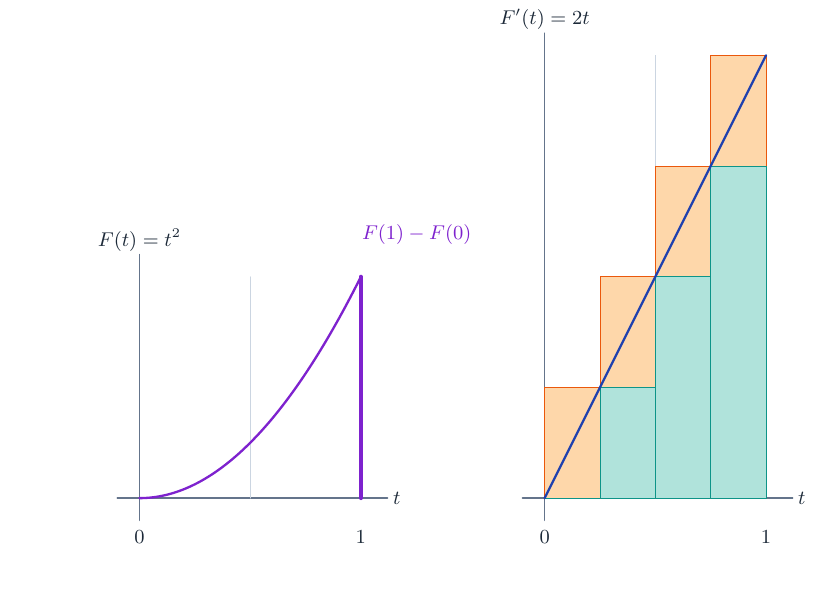
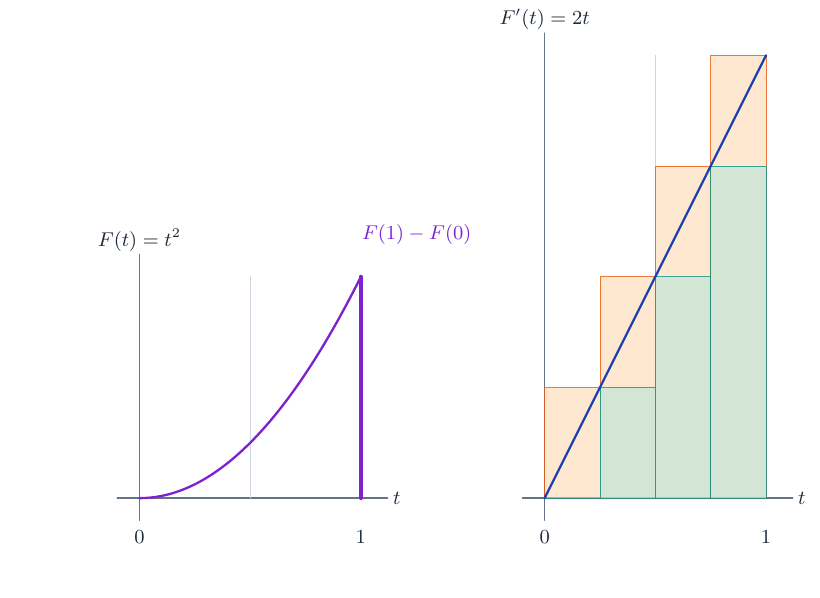
Clarify integral area animations and extract the rectangle pi bridge

Changed region(s): [[0.6402, 0.0903, 0.9451, 0.8428]]

diff --git a/scripts/generate_tikz_animations.py b/scripts/generate_tikz_animations.py
@@ -57,6 +57,10 @@ def path(points: list[tuple[float, float]]) -> str:
     return " ".join(f"({q(x)},{q(y)})" for x, y in points)
 
 
+def polygon(points: list[tuple[float, float]]) -> str:
+    return " -- ".join(f"({q(x)},{q(y)})" for x, y in points)
+
+
 def n(x: float, y: float, text: str, opts: str = "") -> str:
     extra = "," + opts if opts else ""
     return rf"\node[font=\small,text=ink{extra}] at ({q(x)},{q(y)}) {{{text}}};"
@@ -104,8 +108,8 @@ def kernel_frame(cells: int) -> str:
     for left, right in zip(mesh, mesh[1:]):
         lx, rx = x0 + float(left) * unit, x0 + float(right) * unit
         out += [
-            rf"\path[fill=orangefill,draw=orange,line width=.45pt] ({q(lx)},{y0}) rectangle ({q(rx)},{q(y0+float(rational_kernel(left))*unit)});",
-            rf"\path[fill=tealfill,draw=teal,line width=.45pt] ({q(lx)},{y0}) rectangle ({q(rx)},{q(y0+float(rational_kernel(right))*unit)});",
+            rf"\path[fill=orangefill,fill opacity=.55,draw=orange,draw opacity=.8,line width=.45pt] ({q(lx)},{y0}) rectangle ({q(rx)},{q(y0+float(rational_kernel(left))*unit)});",
+            rf"\path[fill=tealfill,fill opacity=.55,draw=teal,draw opacity=.8,line width=.45pt] ({q(lx)},{y0}) rectangle ({q(rx)},{q(y0+float(rational_kernel(right))*unit)});",
         ]
     curve = [(x0 + unit * i / 100, y0 + unit / (1 + (i / 100) ** 2)) for i in range(101)]
     out += [
@@ -160,8 +164,8 @@ def sine_frame(cells: int, last: int, guard: Fraction) -> str:
     for left, right in zip(mesh, mesh[1:]):
         lx, rx = x0 + 2 * float(left) * xunit, x0 + 2 * float(right) * xunit
         out += [
-            rf"\path[fill=orangefill,draw=orange,line width=.45pt] ({q(lx)},{y0}) rectangle ({q(rx)},{q(y0+float(boxes[right][1])*yunit)});",
-            rf"\path[fill=tealfill,draw=teal,line width=.45pt] ({q(lx)},{y0}) rectangle ({q(rx)},{q(y0+float(boxes[left][0])*yunit)});",
+            rf"\path[fill=orangefill,fill opacity=.55,draw=orange,draw opacity=.8,line width=.45pt] ({q(lx)},{y0}) rectangle ({q(rx)},{q(y0+float(boxes[right][1])*yunit)});",
+            rf"\path[fill=tealfill,fill opacity=.55,draw=teal,draw opacity=.8,line width=.45pt] ({q(lx)},{y0}) rectangle ({q(rx)},{q(y0+float(boxes[left][0])*yunit)});",
         ]
     curve = [(x0 + xunit * i / 150, y0 + yunit * math.sin(math.pi * i / 300)) for i in range(151)]
     out.append(rf"\draw[ink,line width=1.05pt] plot[smooth] coordinates {{{path(curve)}}};")
@@ -214,7 +218,8 @@ def circle_frame(cells: int) -> str:
         rf"\draw[axis,line width=.75pt] ({q(x0)},{q(y0-10)}) -- ({q(x0)},{q(north[1]+15)});",
         rf"\draw[curve,line width=1pt] ({q(x0)},{q(y0)}) -- ({q(x0)},{q(north[1])});",
         rf"\draw[ink,line width=1.2pt] ({q(east[0])},{q(y0)}) arc[start angle=0,end angle=90,radius={radius}pt];",
-        rf"\path[fill=tealfill] ({q(origin[0])},{q(origin[1])}) -- {path(plotted)} -- cycle;",
+        rf"\path[fill=orangefill,draw=orange,line width=.45pt] ({q(origin[0])},{q(origin[1])}) -- {polygon([plotted[0], *outer, plotted[-1]])} -- cycle;",
+        rf"\path[fill=tealfill,draw=teal,line width=.45pt] ({q(origin[0])},{q(origin[1])}) -- {polygon(plotted)} -- cycle;",
     ]
     for value, endpoint in zip(mesh, plotted):
         vertical = screen((0, value))
@@ -292,33 +297,55 @@ def sqrt_animation() -> Animation:
 
 
 def substitution_frame(cells: int) -> str:
-    left, right, top, bottom = 57, 300, 135, 51
+    left, right = 57, 300
+    t_base, x_base, height = 136, 39, 45
     x = lambda value: left + float(value) * (right - left)
     mesh = [Fraction(i, cells) for i in range(cells + 1)]
     out = [
-        rf"\draw[axis,line width=.75pt] ({left-10},{top}) -- ({right+14},{top});",
-        rf"\draw[axis,line width=.75pt] ({left-10},{bottom}) -- ({right+14},{bottom});",
+        rf"\draw[axis,line width=.75pt] ({left-10},{t_base}) -- ({right+14},{t_base});",
+        rf"\draw[axis,line width=.75pt] ({left},{t_base-8}) -- ({left},{t_base+height+11});",
+        rf"\draw[axis,line width=.75pt] ({left-10},{x_base}) -- ({right+14},{x_base});",
+        rf"\draw[axis,line width=.75pt] ({left},{x_base-8}) -- ({left},{x_base+height+11});",
     ]
-    for value in mesh:
-        t, image = x(value), x(value*value)
+    for start, stop in zip(mesh, mesh[1:]):
+        lx, rx = x(start), x(stop)
+        lower_height = 2 * float(start) * height
+        curve_points = [(lx, t_base + lower_height)] + [
+            (x(start + (stop - start) * Fraction(k, 16)),
+             t_base + 2 * float(start + (stop - start) * Fraction(k, 16)) * height)
+            for k in range(17)
+        ] + [(rx, t_base + lower_height)]
         out += [
-            rf"\draw[grid,line width=.5pt] ({q(t)},{top-4}) -- ({q(image)},{bottom+4});",
-            rf"\draw[axis,line width=.55pt] ({q(t)},{top-3.5}) -- ({q(t)},{top+3.5});",
-            rf"\draw[curve,line width=.55pt] ({q(image)},{bottom-3.5}) -- ({q(image)},{bottom+3.5});",
-            dot(t, top, "axis", 1.5),
-            dot(image, bottom, "curve", 1.5),
+            rf"\path[fill=orangefill] plot[smooth] coordinates {{{path(curve_points)}}} -- cycle;",
+            rf"\path[fill=tealfill,draw=teal,line width=.4pt] ({q(lx)},{t_base}) rectangle ({q(rx)},{q(t_base+lower_height)});",
+            rf"\path[fill=tealfill,draw=teal,line width=.4pt] ({q(x(start*start))},{x_base}) rectangle ({q(x(stop*stop))},{q(x_base+height)});",
         ]
+    for value in mesh:
+        t, image = x(value), x(value * value)
+        out += [
+            rf"\draw[projection,line width=.45pt] ({q(t)},{t_base-4}) -- ({q(image)},{x_base+height+4});",
+            rf"\draw[axis,line width=.55pt] ({q(t)},{t_base-3.5}) -- ({q(t)},{t_base+3.5});",
+            rf"\draw[axis,line width=.55pt] ({q(image)},{x_base-3.5}) -- ({q(image)},{x_base+3.5});",
+        ]
+    top_curve = [(x(i / 80), t_base + 2 * (i / 80) * height) for i in range(81)]
     out += [
-        n(left, top+12, r"$t_0$", "anchor=north"),
-        n(right, top+12, r"$t_1$", "anchor=north"),
-        n(right+13, top, r"$t$", "anchor=west"),
-        n(right+13, bottom, r"$x=\varphi(t)=t^2$", "anchor=west"),
+        rf"\draw[curve,line width=1.05pt] plot[smooth] coordinates {{{path(top_curve)}}};",
+        rf"\draw[curve,line width=1.05pt] ({left},{q(x_base+height)}) -- ({right},{q(x_base+height)});",
+        n(left, t_base-12, r"$0$", "anchor=north"),
+        n(right, t_base-12, r"$1$", "anchor=north"),
+        n(left, x_base-12, r"$0$", "anchor=north"),
+        n(right, x_base-12, r"$1$", "anchor=north"),
+        n(right+13, t_base-2, r"$t$", "anchor=west"),
+        n(right+13, x_base-2, r"$x$", "anchor=west"),
+        n(left+60, t_base+41, r"$\int_0^1 2t\,dt$", "anchor=south"),
+        n(left+60, x_base+height+10, r"$\int_0^1 1\,dx$", "anchor=south"),
+        n(right+18, 86, r"$x=t^2$", "anchor=west,text=axis"),
     ]
     return "\n".join(out)
 
 
 def substitution_animation() -> Animation:
-    return Animation("substitution-partition", 360, 170, tuple(substitution_frame(i) for i in (1, 2, 4, 8)), (1200, 1200, 1200, 1900), 2)
+    return Animation("substitution-partition", 360, 245, tuple(substitution_frame(i) for i in (1, 2, 4, 8)), (1200, 1200, 1200, 1900), 2)
 
 
 def ibp_frame(cells: int) -> str:
@@ -341,14 +368,18 @@ def ibp_frame(cells: int) -> str:
     curve = [(x(i/100), y((i/100)**2)) for i in range(101)]
     out.append(rf"\draw[ink,line width=.85pt] plot[smooth] coordinates {{{path(curve)}}};")
     for lf, rf_, lg, rg in zip(f, f[1:], g, g[1:]):
-        out.append(rf"\path[fill=yellowfill] ({q(x(lf))},{q(y(lg))}) rectangle ({q(x(rf_))},{q(y(rg))});")
+        out += [
+            rf"\path[fill=tealfill,draw=teal,line width=.3pt] ({q(x(lf))},{bottom}) rectangle ({q(x(rf_))},{q(y(lg))});",
+            rf"\path[fill=tealfill,draw=teal,line width=.3pt] ({left},{q(y(lg))}) rectangle ({q(x(lf))},{q(y(rg))});",
+            rf"\path[fill=orangefill,draw=orange,line width=.4pt] ({q(x(lf))},{q(y(lg))}) rectangle ({q(x(rf_))},{q(y(rg))});",
+        ]
     horizontal, vertical = [(x(f[0]), y(g[0]))], [(x(f[0]), y(g[0]))]
     for lf, rf_, lg, rg in zip(f, f[1:], g, g[1:]):
         horizontal += [(x(rf_), y(lg)), (x(rf_), y(rg))]
         vertical += [(x(lf), y(rg)), (x(rf_), y(rg))]
     out += [
-        rf"\draw[orange,line width=.9pt] plot coordinates {{{path(horizontal)}}};",
-        rf"\draw[teal,line width=.9pt] plot coordinates {{{path(vertical)}}};",
+        rf"\draw[ink,line width=.8pt] plot coordinates {{{path(horizontal)}}};",
+        rf"\draw[ink,line width=.8pt] plot coordinates {{{path(vertical)}}};",
         *[dot(x(fv), y(gv), "ink", 1.45) for fv, gv in zip(f, g)],
         n(left, ruler-11, r"$t_0$", "anchor=north"),
         n(left+unit, ruler-11, r"$t_1$", "anchor=north"),
@@ -385,8 +416,8 @@ def ftc_frame(cells: int) -> str:
     mesh = [Fraction(i, cells) for i in range(cells+1)]
     for left, right in zip(mesh, mesh[1:]):
         out += [
-            rf"\path[fill=orangefill,draw=orange,line width=.4pt] ({q(dx(left))},{base}) rectangle ({q(dx(right))},{q(y(2*right))});",
-            rf"\path[fill=tealfill,draw=teal,line width=.4pt] ({q(dx(left))},{base}) rectangle ({q(dx(right))},{q(y(2*left))});",
+            rf"\path[fill=orangefill,fill opacity=.55,draw=orange,draw opacity=.8,line width=.4pt] ({q(dx(left))},{base}) rectangle ({q(dx(right))},{q(y(2*right))});",
+            rf"\path[fill=tealfill,fill opacity=.55,draw=teal,draw opacity=.8,line width=.4pt] ({q(dx(left))},{base}) rectangle ({q(dx(right))},{q(y(2*left))});",
         ]
     out += [
         rf"\draw[curve,line width=1.05pt] plot coordinates {{{path(derivative)}}};",
@@ -421,22 +452,22 @@ def single_turn_frame(turn_left: Fraction, turn_right: Fraction, cells: int) -> 
         for a, b in zip(mesh, mesh[1:]):
             lo, hi = sorted((sinc(float(a)), sinc(float(b))))
             out.extend([
-                rf"\path[fill=orangefill,draw=orange,line width=.3pt] ({q(x(a))},{q(y(0))}) rectangle ({q(x(b))},{q(y(hi))});",
-                rf"\path[fill=tealfill,draw=teal,line width=.3pt] ({q(x(a))},{q(y(0))}) rectangle ({q(x(b))},{q(y(lo))});",
+                rf"\path[fill=orangefill,fill opacity=.55,draw=orange,draw opacity=.8,line width=.3pt] ({q(x(a))},{q(y(0))}) rectangle ({q(x(b))},{q(y(hi))});",
+                rf"\path[fill=tealfill,fill opacity=.55,draw=teal,draw opacity=.8,line width=.3pt] ({q(x(a))},{q(y(0))}) rectangle ({q(x(b))},{q(y(lo))});",
             ])
     tail(Fraction(0), turn_left)
     tail(turn_right, Fraction(2))
-    out.append(rf"\path[fill=yellowfill,draw=yellowedge,line width=.55pt] ({q(x(turn_left))},{q(y(-.25))}) rectangle ({q(x(turn_right))},{q(y(0))});")
+    out.append(rf"\path[fill=orangefill,draw=orange,line width=.55pt] ({q(x(turn_left))},{q(y(-.25))}) rectangle ({q(x(turn_right))},{q(y(0))});")
     curve = [(x(i/300), y(sinc(i/300))) for i in range(601)]
     out += [
         rf"\draw[ink,line width=1.05pt] plot[smooth] coordinates {{{path(curve)}}};",
-        rf"\draw[yellowedge,line width=.65pt] ({q(x(turn_left))},{q(y(-.25))}) -- ({q(x(turn_left))},{q(y(1.04))});",
-        rf"\draw[yellowedge,line width=.65pt] ({q(x(turn_right))},{q(y(-.25))}) -- ({q(x(turn_right))},{q(y(1.04))});",
+        rf"\draw[orange,line width=.65pt] ({q(x(turn_left))},{q(y(-.25))}) -- ({q(x(turn_left))},{q(y(1.04))});",
+        rf"\draw[orange,line width=.65pt] ({q(x(turn_right))},{q(y(-.25))}) -- ({q(x(turn_right))},{q(y(1.04))});",
         n(x(0), y(0)-12, r"$0$", "anchor=north"),
         n(x(1), y(0)-12, r"$1$", "anchor=north"),
         n(x(2), y(0)-12, r"$2$", "anchor=north"),
-        n(x(turn_left)-4, y(0)-23, r"$\ell$", "anchor=north east,text=yellowedge"),
-        n(x(turn_right)+4, y(0)-23, r"$r$", "anchor=north west,text=yellowedge"),
+        n(x(turn_left)-4, y(0)-23, r"$\ell$", "anchor=north east,text=orange"),
+        n(x(turn_right)+4, y(0)-23, r"$r$", "anchor=north west,text=orange"),
         n(x(2)+10, y(0), r"$t$", "anchor=west"),
         n(left+8, y(.88), r"$\frac{\sin(\pi t)}{\pi t}$", "anchor=west"),
     ]

diff --git a/blueprint/src/03-integrals.tex b/blueprint/src/03-integrals.tex
@@ -54,7 +54,9 @@ There are no function-value error bars in this first computation.
 \lean{ComputableAnalysis.IntegralIdentities.arctanIntegralRectangleOnUnit_forwardDerivativeAtZero}
 \lean{ComputableAnalysis.ArctanGeometry.arctanIntegralRectangleRaw_forward_difference_equiv_tangentChartIncrement}
 \lean{ComputableAnalysis.IntegralIdentities.arctanIntegralRectangleUnit_equiv_arctanGeom}
-\lean{ComputableAnalysis.PiProofs.four_arctanIntegralRectangleRawAtOne_equiv_piCircleArea}
+\lean{ComputableAnalysis.ArctanRectanglePi.raw}
+\lean{ComputableAnalysis.ArctanRectanglePi.raw_valid}
+\lean{ComputableAnalysis.ArctanRectanglePi.raw_equiv_piCircleArea}
 \leanok
 The direct rational inequalities give a dyadic width at most \(4/2^n\),
 and hence a valid raw integral.  The completed endpoint bridge is
